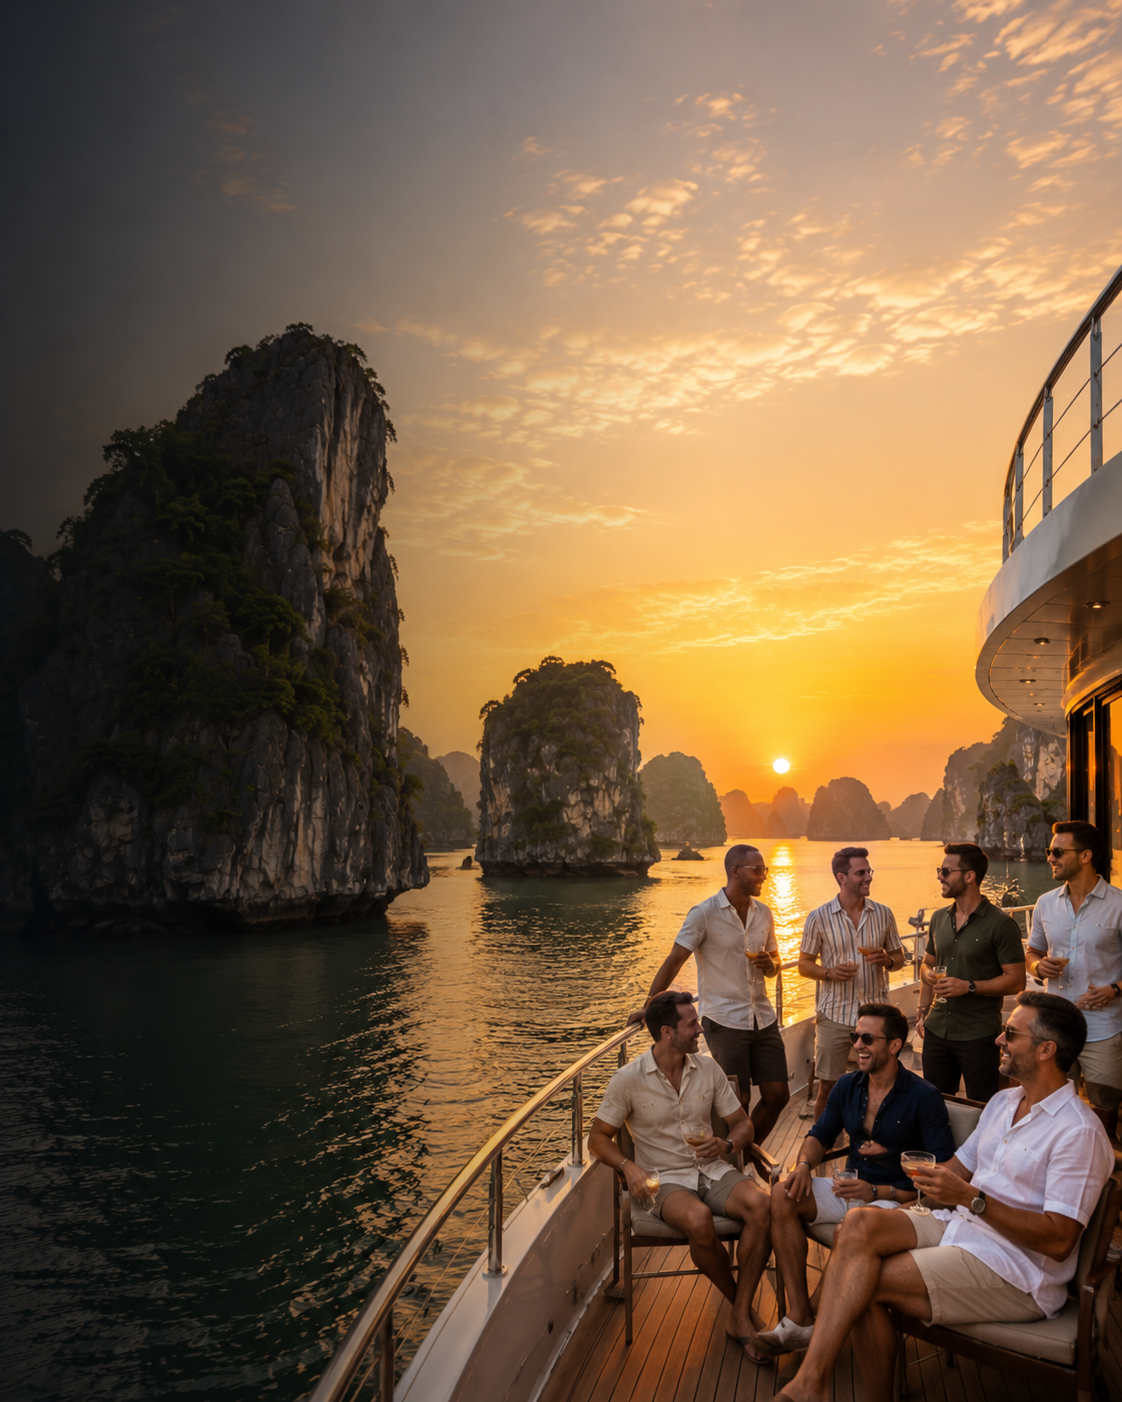
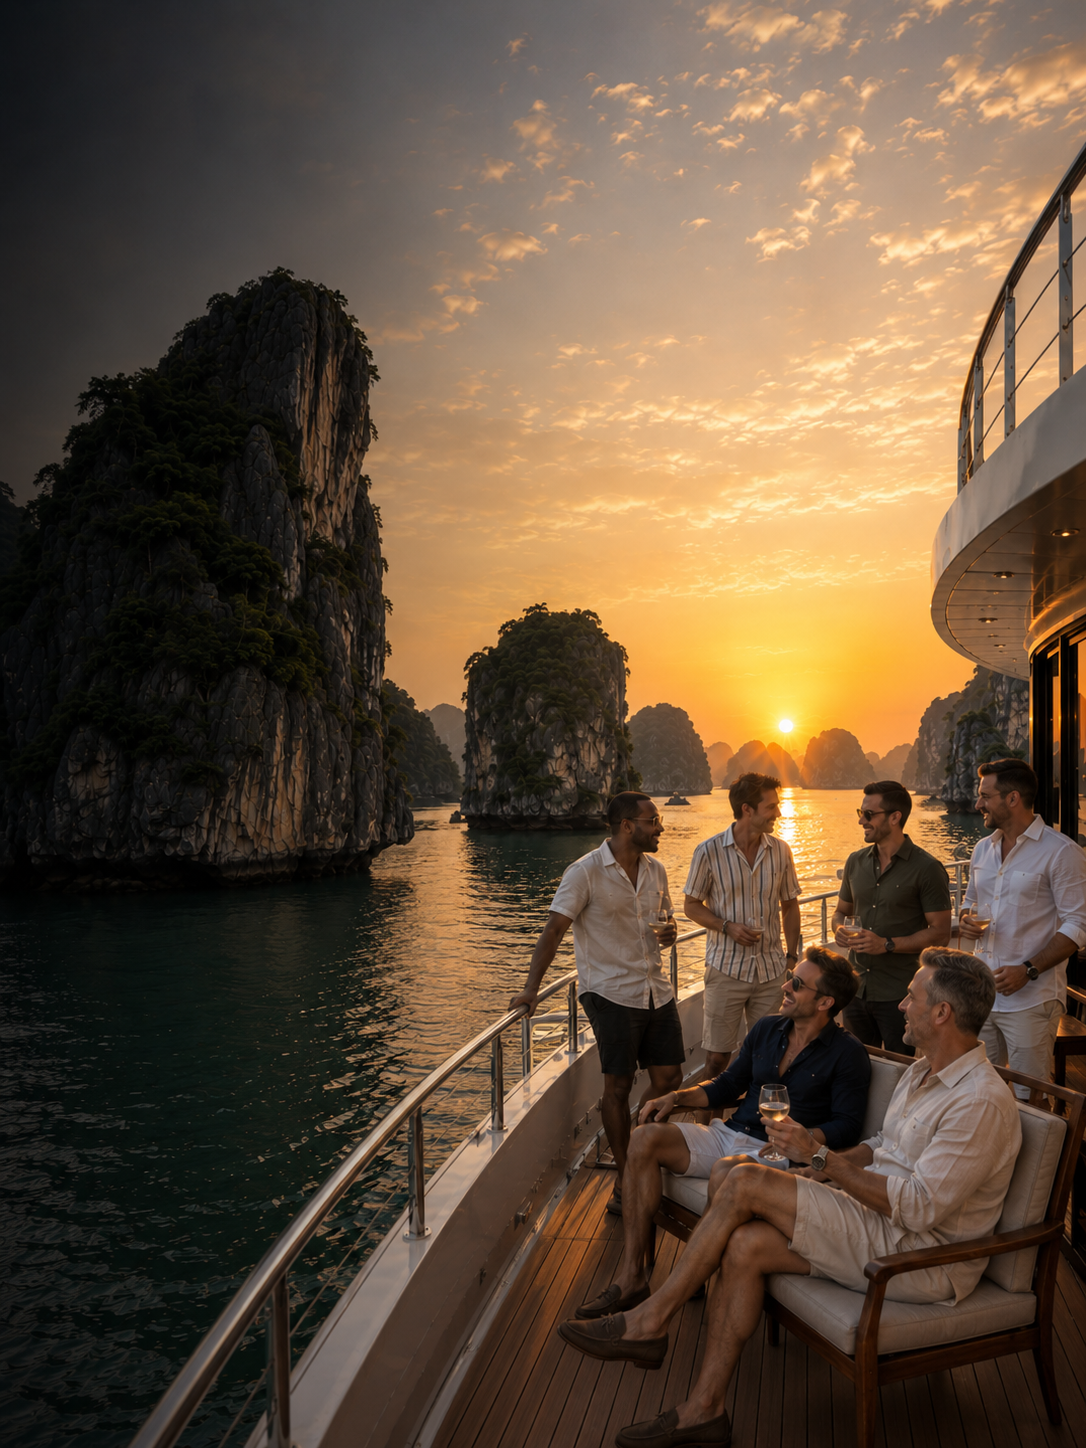
fix: hero subtitle 1 line, founders padding, reviews center+10s, CTA title nowrap
- Hero: remove max-width constraint on subtitle, add lg:whitespace-nowrap
- Meet Your Guides: wrap desktop text in max-w-7xl/px-8 to align with page grid
- Testimonials: text-center on quote, justify-center on author row, interval 10000ms
- Ready To Explore: block+md:whitespace-nowrap on first line to prevent wrapping
- Replace hero-home-web.png and hero-home-mobile.png with new versions from Drive

diff --git a/app/page.tsx b/app/page.tsx
@@ -160,7 +160,7 @@ function HeroSection() {
             transition={{ duration: 0.7, delay: 0.9 }}
             className="mt-3 md:mt-8 flex flex-col sm:flex-row gap-5 items-start sm:items-center"
           >
-            <p className="font-sans text-[11.5px] sm:text-base text-white/50 sm:max-w-[240px] sm:mr-4 leading-relaxed">
+            <p className="font-sans text-[11.5px] sm:text-sm text-white/50 leading-relaxed lg:whitespace-nowrap">
               Curated luxury journeys exclusively for the LGBTQ+ community.
             </p>
             <div className="hidden md:flex flex-wrap gap-3">
@@ -452,8 +452,12 @@ function FoundersSection() {
           />
           <div className="absolute inset-0" style={{ background: "linear-gradient(to right, #0E1F38 0%, rgba(14,31,56,0.55) 25%, rgba(14,31,56,0.1) 55%, transparent 75%)" }} />
         </div>
-        <div className="relative z-10 px-6 lg:px-10 py-16 lg:py-20 w-full max-w-[560px] lg:max-w-[46%]">
-          <FoundersText />
+        <div className="relative z-10 w-full">
+          <div className="max-w-7xl mx-auto px-6 lg:px-8">
+            <div className="py-16 lg:py-20 max-w-[560px] lg:max-w-[46%]">
+              <FoundersText />
+            </div>
+          </div>
         </div>
       </div>
 
@@ -467,7 +471,7 @@ function TestimonialsSection() {
   const [current, setCurrent] = useState(0)
 
   useEffect(() => {
-    const t = setInterval(() => setCurrent((c) => (c + 1) % TESTIMONIALS.length), 6000)
+    const t = setInterval(() => setCurrent((c) => (c + 1) % TESTIMONIALS.length), 10000)
     return () => clearInterval(t)
   }, [])
 
@@ -512,7 +516,7 @@ function TestimonialsSection() {
                   &ldquo;
                 </span>
                 <blockquote
-                  className="font-serif text-sm md:text-base italic leading-relaxed relative z-10 pt-3 text-left"
+                  className="font-serif text-sm md:text-base italic leading-relaxed relative z-10 pt-3 text-center"
                   style={{ color: "#0E1F38" }}
                 >
                   &ldquo;{TESTIMONIALS[current].quote}&rdquo;
@@ -523,7 +527,7 @@ function TestimonialsSection() {
               <div style={{ borderTop: "1px solid rgba(14,31,56,0.12)", margin: "0" }} />
 
               {/* Author row — always horizontal, flush at the bottom */}
-              <div className="flex items-center gap-4 px-7 md:px-9 py-4 md:py-5">
+              <div className="flex items-center justify-center gap-4 px-7 md:px-9 py-4 md:py-5">
                 <div className="w-11 h-11 md:w-13 md:h-13 rounded-full overflow-hidden flex-shrink-0">
                   <Image
                     src={TESTIMONIALS[current].photo}
@@ -594,7 +598,7 @@ function CTASection() {
             viewport={{ once: true }}
             className="font-serif font-bold text-4xl md:text-5xl lg:text-6xl text-white leading-tight mb-3 md:mb-6"
           >
-            Ready To Explore<br />
+            <span className="block md:whitespace-nowrap">Ready To Explore</span>
             <span className="italic text-sunset-orange">Southeast Asia?</span>
           </motion.h2>
           <motion.p